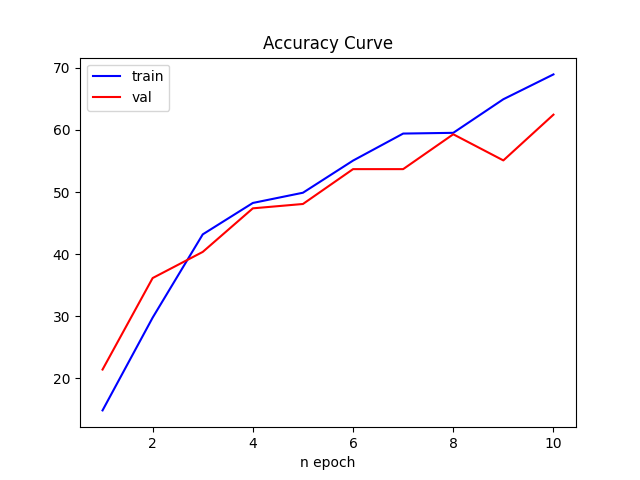
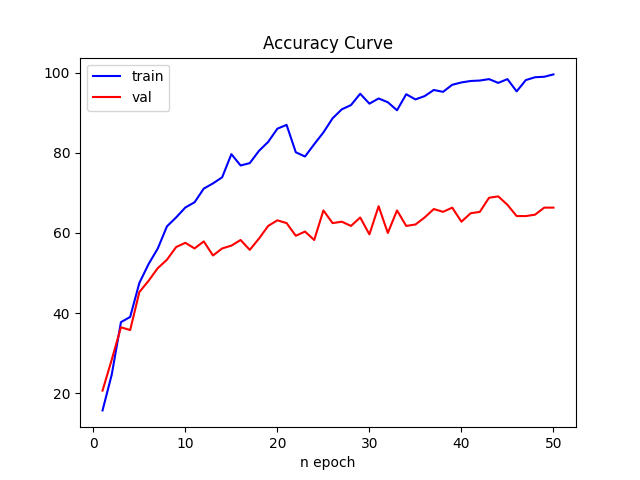
delete 1 FC layer

diff --git a/VGG.py b/VGG.py
@@ -181,10 +181,10 @@ class VGG(nn.Module):
                 self.num_hidden),
             nn.ReLU(),
             nn.Dropout(p=0.5),
-            nn.Linear(self.num_hidden, self.num_hidden),
-            nn.ReLU(),
-            nn.Dropout(p=0.5),
             nn.Linear(self.num_hidden, self.num_classes)
+            # nn.ReLU(),
+            # nn.Dropout(p=0.5),
+            # nn.Linear(self.num_hidden, self.num_classes)
         )
     
     def init_convs(self, architecture):
@@ -347,6 +347,10 @@ for epoch in range(num_epochs):
 
 plot(num_epochs, train_loss_list, val_loss_list, "Loss Curve")
 plot(num_epochs, train_acc, val_acc, "Accuracy Curve")
+
+# get # of parameters
+print(num_of_parameters = sum(p.numel() for p in model.parameters() if p.requires_grad))
+
 
 # with torch.no_grad():
 #     correct = 0
